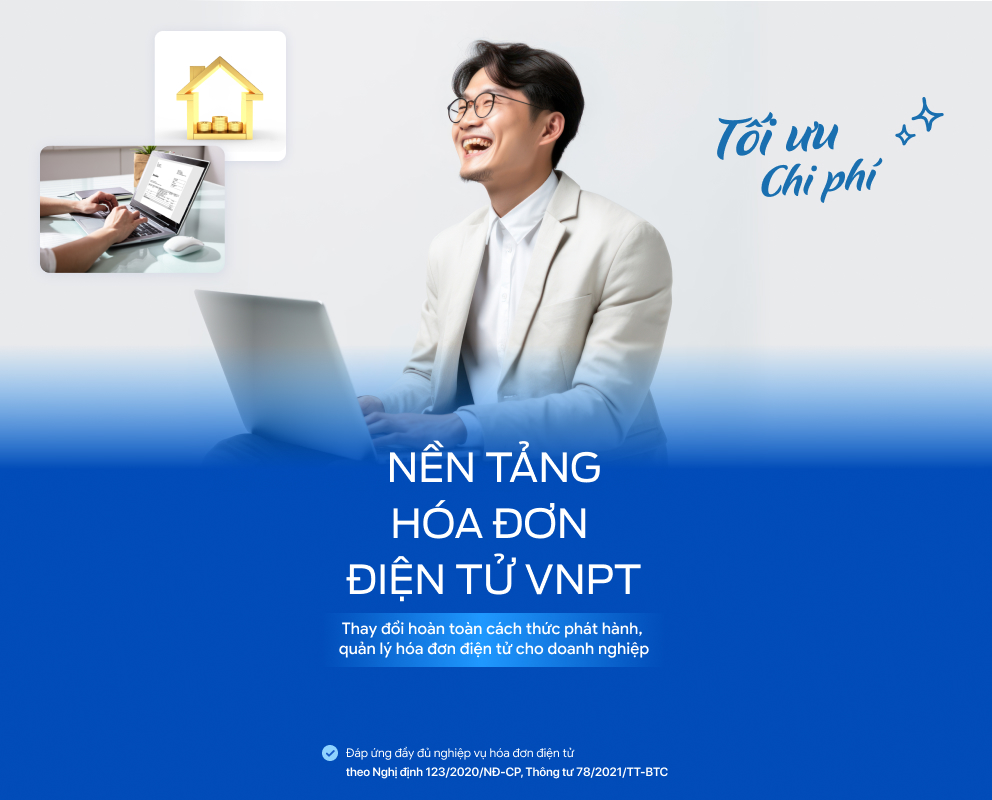
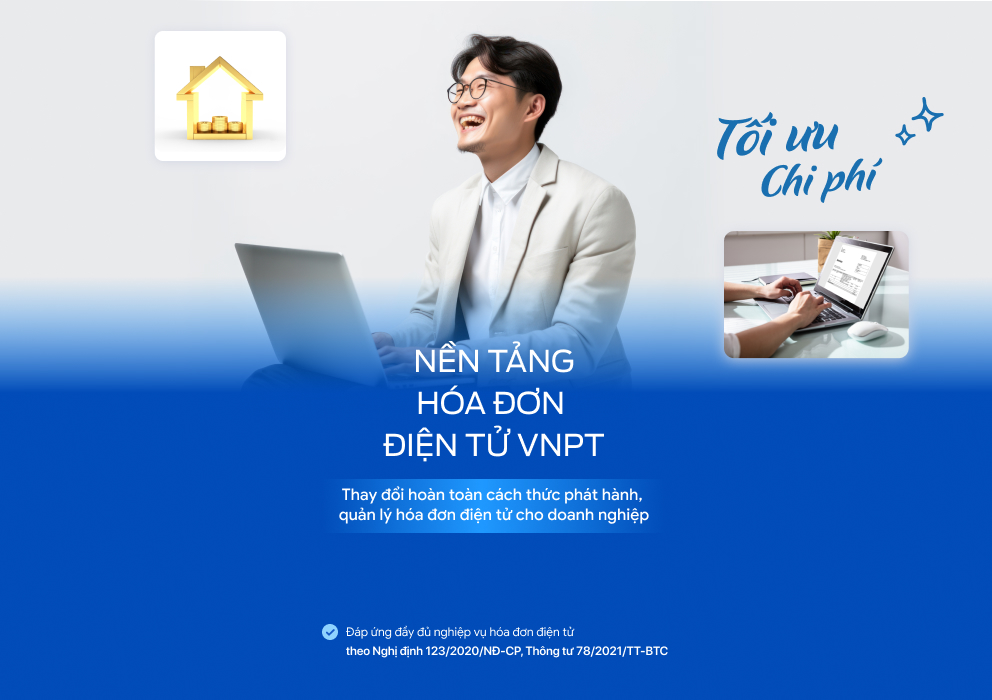
Optimize: css

diff --git a/assets/frontend/css/app.css b/assets/frontend/css/app.css
@@ -1558,7 +1558,8 @@ header .header__btn-trial {
   font-style: normal;
   font-weight: 500;
   line-height: 24px; /* 150% */
-  width: 83px;
+  max-width: fit-content;
+  width: 100%;
   height: 32px;
   flex-shrink: 0;
   border-radius: 200px;
@@ -1568,6 +1569,7 @@ header .header__btn-trial {
   align-items: center;
   gap: 0 4px;
   justify-content: center;
+  padding: 0 13px;
 }
 header .header__icon-box-mb {
   display: none;
@@ -1614,7 +1616,7 @@ header .header__icon-box-mb img.--show {
 .menu-mb-box {
   height: calc(100vh - 64px);
   width: 100%;
-  padding: 38px 16px 26px;
+  padding: 0 16px 26px;
   position: fixed;
   left: calc(-120vw - 700px);
   transition: 0.3s left linear;
@@ -1632,6 +1634,7 @@ header .header__icon-box-mb img.--show {
 }
 .menu-mb-box__top .search-box {
   position: relative;
+  margin: 32px 0 26px;
 }
 .menu-mb-box__top .search-box__icon {
   width: 24px;
@@ -1653,7 +1656,6 @@ header .header__icon-box-mb img.--show {
   outline: unset;
 }
 .menu-mb-box__top .button-box {
-  margin-top: 49px;
   display: flex;
   align-items: center;
   justify-content: center;
@@ -1661,7 +1663,7 @@ header .header__icon-box-mb img.--show {
 }
 .menu-mb-box__top .button-box__btn {
   width: 166.809px;
-  height: 24px;
+  height: 34px;
   flex-shrink: 0;
   border-radius: 6px;
   display: flex;
@@ -1672,10 +1674,11 @@ header .header__icon-box-mb img.--show {
   background-color: #3aa4f6;
   color: #fff;
   text-align: center;
-  font-size: 14px;
+  font-size: 16px;
   font-style: normal;
   font-weight: 400;
   line-height: 24px; /* 171.429% */
+  text-transform: uppercase;
 }
 .menu-mb-box__top .button-box__btn-login:hover {
   background-color: #0c5adb;
@@ -1684,17 +1687,18 @@ header .header__icon-box-mb img.--show {
   background-color: #f2f2f2;
   color: #7a7a7a;
   text-align: center;
-  font-size: 14px;
+  font-size: 16px;
   font-style: normal;
   font-weight: 400;
   line-height: 24px; /* 171.429% */
+  text-transform: uppercase;
 }
 .menu-mb-box__top .button-box__btn-register:hover {
   background-color: #0c5adb;
   color: #fff;
 }
 .menu-mb-box__top .menu-mb {
-  margin-top: 31px;
+  margin-top: 8px;
   display: flex;
   flex-flow: column;
   height: calc(100vh - 100px - 48px - 24px - 49px - 41px - 196px);
@@ -1705,7 +1709,7 @@ header .header__icon-box-mb img.--show {
   font-size: 22px;
   font-style: normal;
   font-weight: 500;
-  line-height: 56px; /* 254.545% */
+  line-height: 48px; /* 254.545% */
 }
 .menu-mb-box__top .menu-mb__item .arrow-down {
   margin-left: 8px;

diff --git a/assets/frontend/css/pages/home.css b/assets/frontend/css/pages/home.css
@@ -110,13 +110,13 @@
 @media (max-width: 992px) {
   .home-page .block:nth-child(1) .banner-slides__item .button {
     transform: translateX(-50%);
-    bottom: 72px;
+    bottom: 115px;
   }
 }
 @media (max-width: 375px) {
   .home-page .block:nth-child(1) .banner-slides__item .button {
     width: calc(100% - 20px);
-    bottom: 60px;
+    bottom: 97px;
     font-size: 17px;
     padding: 10px 12px;
   }
@@ -1087,6 +1087,11 @@
 }
 .home-page .block:nth-child(5) .block__content--left {
   position: relative;
+  z-index: 1;
+}
+.home-page .block:nth-child(5) .block__content--right {
+  position: relative;
+  z-index: 2;
 }
 @media (max-width: 992px) {
   .home-page .block:nth-child(5) .block__content--left {
@@ -1313,6 +1318,7 @@
   .home-page .block:nth-child(6) .block__left--title {
     color: #212121;
     font-size: 34px;
+    text-align: justify;
   }
 }
 .home-page .block:nth-child(6) .block__left--description {
@@ -1323,6 +1329,13 @@
   line-height: 22px; /* 129.412% */
   margin-top: 33px;
 }
+
+@media (max-width: 768px) {
+  .home-page .block:nth-child(6) .block__left--description {
+    text-align: justify;
+  }
+}
+
 .home-page .block:nth-child(6) .block__left--button {
   margin-top: 44px;
   width: 324px;

diff --git a/assets/frontend/css/pages/service.css b/assets/frontend/css/pages/service.css
@@ -245,12 +245,7 @@
 }
 @media (max-width: 992px) {
   .service-page .block:nth-child(2) .block__content--main-content .item {
-    height: 668px;
-  }
-}
-@media (max-width: 410px) {
-  .service-page .block:nth-child(2) .block__content--main-content .item {
-    height: 710px;
+    height: auto;
   }
 }
 .service-page .block:nth-child(2) .block__content--main-content .item .image {
@@ -277,6 +272,8 @@
 @media (max-width: 992px) {
   .service-page .block:nth-child(2) .block__content--main-content .item .content-box {
     padding: 24px 16px 28px;
+    height: auto;
+    gap: 40px 0;
   }
 }
 @media (max-width: 410px) {
@@ -446,6 +443,8 @@
 @media (max-width: 992px) {
   .service-page .block:nth-child(3) {
     padding: 67px 0 48px;
+    background-position: 100% -100px;
+    background-repeat: no-repeat;
   }
 }
 .service-page .block:nth-child(3) .block__content--main-content {

diff --git a/index.html b/index.html
@@ -8,7 +8,7 @@
 
     <link rel="stylesheet" href="assets/library/bootstrap-5.1/css/bootstrap.min.css">
     <link rel="stylesheet" href="assets/library/plugins/toastr/toastr.css">
-    <link rel="stylesheet" href="assets/frontend/css/app.css?v=3">
+    <link rel="stylesheet" href="assets/frontend/css/app.css?v=6">
     <link rel="stylesheet" href="assets/library/slick/slick.css">
     <link rel="stylesheet" href="assets/library/slick/slick-theme.css">
     <link rel="stylesheet" href="https://use.fontawesome.com/releases/v5.0.8/css/all.css"
@@ -35,7 +35,7 @@
     <script defer src="assets/frontend/js/app.js"></script>
 
 
-    <link rel="stylesheet" href="assets/frontend/css/pages/home.css?v=4">
+    <link rel="stylesheet" href="assets/frontend/css/pages/home.css?v=6">
     <script defer src="assets/frontend/js/pages/home.js?v=1"></script>
 </head>
 

diff --git a/service.html b/service.html
@@ -8,7 +8,7 @@
 
     <link rel="stylesheet" href="assets/library/bootstrap-5.1/css/bootstrap.min.css">
     <link rel="stylesheet" href="assets/library/plugins/toastr/toastr.css">
-    <link rel="stylesheet" href="assets/frontend/css/app.css?v=3">
+    <link rel="stylesheet" href="assets/frontend/css/app.css?v=6">
     <link rel="stylesheet" href="assets/library/slick/slick.css">
     <link rel="stylesheet" href="assets/library/slick/slick-theme.css">
     <link rel="stylesheet" href="https://use.fontawesome.com/releases/v5.0.8/css/all.css"
@@ -35,7 +35,7 @@
     <script defer src="assets/frontend/js/app.js"></script>
 
 
-    <link rel="stylesheet" href="assets/frontend/css/pages/service.css?v=4">
+    <link rel="stylesheet" href="assets/frontend/css/pages/service.css?v=6">
     <script  src="assets/frontend/js/pages/service.js"></script>
 </head>
 

diff --git a/electronic-invoice-document.html b/electronic-invoice-document.html
@@ -8,7 +8,7 @@
 
     <link rel="stylesheet" href="assets/library/bootstrap-5.1/css/bootstrap.min.css">
     <link rel="stylesheet" href="assets/library/plugins/toastr/toastr.css">
-    <link rel="stylesheet" href="assets/frontend/css/app.css?v=3">
+    <link rel="stylesheet" href="assets/frontend/css/app.css?v=6">
     <link rel="stylesheet" href="assets/library/slick/slick.css">
     <link rel="stylesheet" href="assets/library/slick/slick-theme.css">
     <link rel="stylesheet" href="https://use.fontawesome.com/releases/v5.0.8/css/all.css"

diff --git a/electronic-invoice-ereceip.html b/electronic-invoice-ereceip.html
@@ -8,7 +8,7 @@
 
     <link rel="stylesheet" href="assets/library/bootstrap-5.1/css/bootstrap.min.css">
     <link rel="stylesheet" href="assets/library/plugins/toastr/toastr.css">
-    <link rel="stylesheet" href="assets/frontend/css/app.css?v=3">
+    <link rel="stylesheet" href="assets/frontend/css/app.css?v=6">
     <link rel="stylesheet" href="assets/library/slick/slick.css">
     <link rel="stylesheet" href="assets/library/slick/slick-theme.css">
     <link rel="stylesheet" href="https://use.fontawesome.com/releases/v5.0.8/css/all.css"

diff --git a/electronic-invoice-eticket.html b/electronic-invoice-eticket.html
@@ -8,7 +8,7 @@
 
     <link rel="stylesheet" href="assets/library/bootstrap-5.1/css/bootstrap.min.css">
     <link rel="stylesheet" href="assets/library/plugins/toastr/toastr.css">
-    <link rel="stylesheet" href="assets/frontend/css/app.css?v=3">
+    <link rel="stylesheet" href="assets/frontend/css/app.css?v=6">
     <link rel="stylesheet" href="assets/library/slick/slick.css">
     <link rel="stylesheet" href="assets/library/slick/slick-theme.css">
     <link rel="stylesheet" href="https://use.fontawesome.com/releases/v5.0.8/css/all.css"

diff --git a/electronic-invoice-inbot.html b/electronic-invoice-inbot.html
@@ -8,7 +8,7 @@
 
     <link rel="stylesheet" href="assets/library/bootstrap-5.1/css/bootstrap.min.css">
     <link rel="stylesheet" href="assets/library/plugins/toastr/toastr.css">
-    <link rel="stylesheet" href="assets/frontend/css/app.css?v=3">
+    <link rel="stylesheet" href="assets/frontend/css/app.css?v=6">
     <link rel="stylesheet" href="assets/library/slick/slick.css">
     <link rel="stylesheet" href="assets/library/slick/slick-theme.css">
     <link rel="stylesheet" href="https://use.fontawesome.com/releases/v5.0.8/css/all.css"

diff --git a/electronic-invoice-pos.html b/electronic-invoice-pos.html
@@ -8,7 +8,7 @@
 
     <link rel="stylesheet" href="assets/library/bootstrap-5.1/css/bootstrap.min.css">
     <link rel="stylesheet" href="assets/library/plugins/toastr/toastr.css">
-    <link rel="stylesheet" href="assets/frontend/css/app.css?v=3">
+    <link rel="stylesheet" href="assets/frontend/css/app.css?v=6">
     <link rel="stylesheet" href="assets/library/slick/slick.css">
     <link rel="stylesheet" href="assets/library/slick/slick-theme.css">
     <link rel="stylesheet" href="https://use.fontawesome.com/releases/v5.0.8/css/all.css"

diff --git a/electronic-invoice.html b/electronic-invoice.html
@@ -8,7 +8,7 @@
 
     <link rel="stylesheet" href="assets/library/bootstrap-5.1/css/bootstrap.min.css">
     <link rel="stylesheet" href="assets/library/plugins/toastr/toastr.css">
-    <link rel="stylesheet" href="assets/frontend/css/app.css?v=3">
+    <link rel="stylesheet" href="assets/frontend/css/app.css?v=6">
     <link rel="stylesheet" href="assets/library/slick/slick.css">
     <link rel="stylesheet" href="assets/library/slick/slick-theme.css">
     <link rel="stylesheet" href="https://use.fontawesome.com/releases/v5.0.8/css/all.css"

diff --git a/helper.html b/helper.html
@@ -8,7 +8,7 @@
 
     <link rel="stylesheet" href="assets/library/bootstrap-5.1/css/bootstrap.min.css">
     <link rel="stylesheet" href="assets/library/plugins/toastr/toastr.css">
-    <link rel="stylesheet" href="assets/frontend/css/app.css?v=3">
+    <link rel="stylesheet" href="assets/frontend/css/app.css?v=6">
     <link rel="stylesheet" href="assets/library/slick/slick.css">
     <link rel="stylesheet" href="assets/library/slick/slick-theme.css">
     <link rel="stylesheet" href="https://use.fontawesome.com/releases/v5.0.8/css/all.css"
